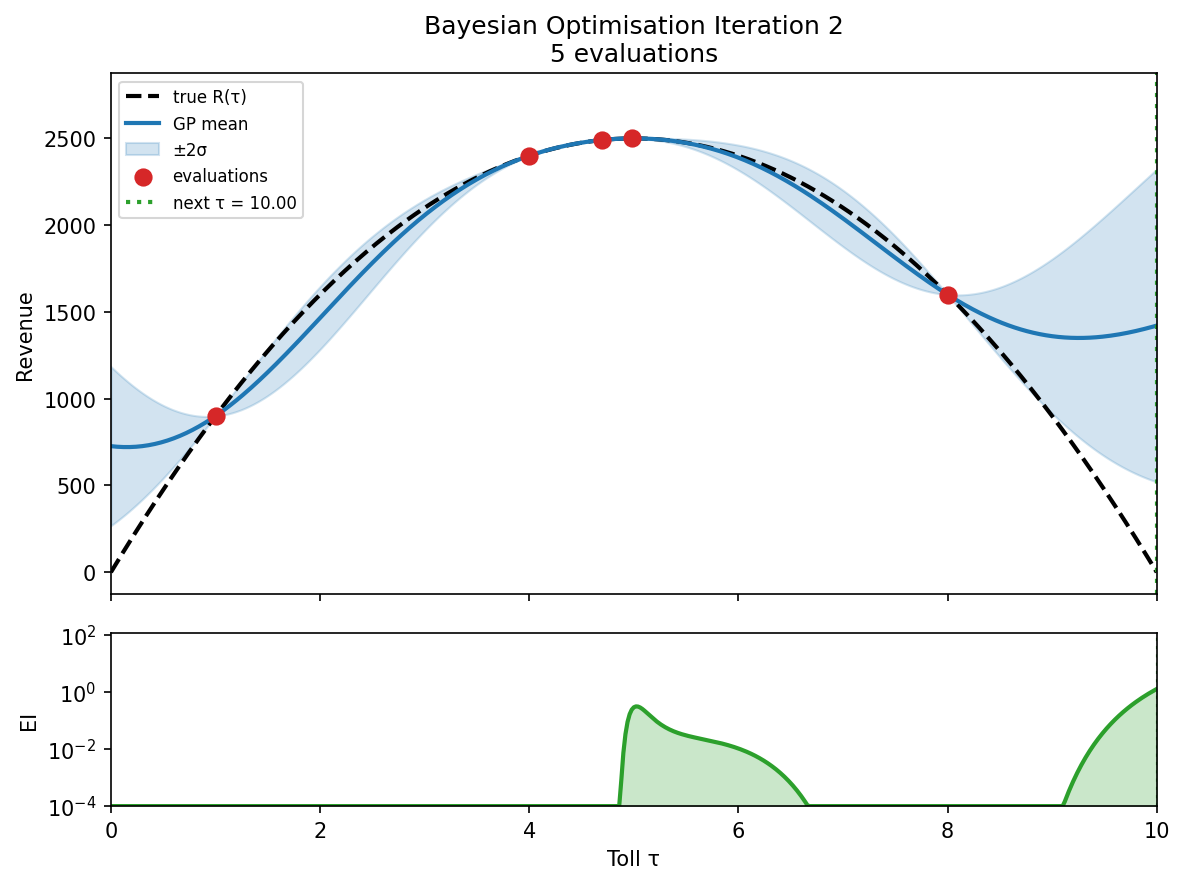
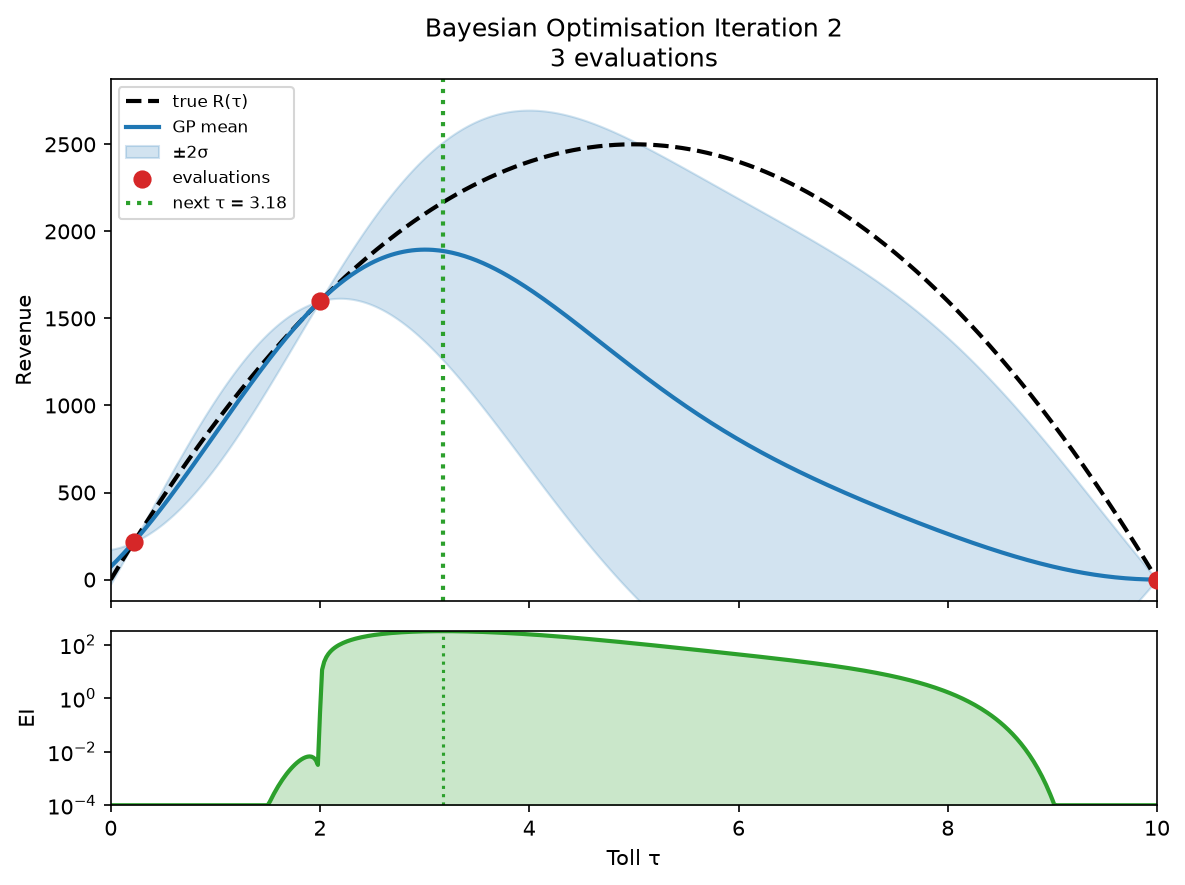
add stopping criterium

diff --git a/toll_bo_images.py b/toll_bo_images.py
@@ -4,12 +4,15 @@ Single road, single toll operator: revenue maximisation.
 Part 1: exact solution (very doable by hand on paper as well)
 Part 2: Bayesian Optimisation with a hand-written Gaussian Process
 """
+import os
 import numpy as np
 import matplotlib
 matplotlib.use("Agg")
 import matplotlib.pyplot as plt
 from scipy.stats import norm
 import imageio.v2 as imageio
+
+os.makedirs("vis", exist_ok=True)   # output folder for figures and GIF
 
 # ----------------------------------------------------------------------
 # 1. The "expensive model" (here cheap, but we treat it as a black box)
@@ -115,7 +118,9 @@ def gp_posterior(x_train, y_train, x_test, length=2.0, sigma_f=1.0, noise=1e-6):
     # revenues are in the thousands. Rescaling y to zero mean / unit spread
     # makes sigma_f = 1 a sensible choice. We undo this at the very end.
     y_mean = y_train.mean()
-    y_std = y_train.std() + 1e-12          # +1e-12 avoids dividing by zero
+    y_std = y_train.std()
+    if y_std < 1e-8:                       # all revenues equal (or only 1 point):
+        y_std = 1.0                        # no meaningful spread, skip rescaling
     y = (y_train - y_mean) / y_std
  
     # --- Step 2: build the kernel matrices -------------------------------
@@ -199,26 +204,42 @@ grid = np.linspace(0, TAU_MAX, 501)
  
 # Initial design: BO needs a few evaluations to start. These 3 spread-out
 # tolls are the only "free" information; every later one is chosen by EI.
-x_obs = np.array([1.0, 4.0, 8.0])     # tolls evaluated so far
+x_obs = np.array([2.0])   # !!!!!!!!!!!!!!!!!!!!!!!!!!!!!!!!! hardcoded??????
 y_obs = revenue(x_obs)                # their revenues (3 expensive calls)
-N_ITER = 6                            # number of BO iterations
- 
+N_ITER = 50                            # !!!!!!!!!!!!!!!!!!!!!!!!!!!!!!!!! hardcoded??????
+# Relative stop criterion: stop if EI everywhere is below this fraction of
+# the best revenue seen so far (scale-independent).
+EI_REL_TOL = 1e-6
 snapshots = []   # store each iteration's state, only used for plotting
  
 # --- The BO loop ---------------------------------------------------------
-for it in range(N_ITER):
+for it in range(1, N_ITER + 1):
     # (a) Fit the GP to all data so far and predict on the whole grid.
     #     Cheap: only linear algebra on a tiny matrix.
     mean, std = gp_posterior(x_obs, y_obs, grid)
- 
+
     # (b) Score every candidate toll with EI, relative to the best
     #     revenue observed so far.
     ei = expected_improvement(mean, std, y_obs.max())
- 
+
+    # Stopping criterion: no candidate toll is worth another evaluation.
+    if ei.max() <= EI_REL_TOL * abs(y_obs.max()):
+        print(f"Stopped before iter {it}: max EI = {ei.max():.2e} "
+              f"is below tolerance")
+        break
+
     # (c) Pick the toll with the highest EI: the most promising place
     #     to spend one expensive evaluation.
     x_next = grid[np.argmax(ei)]
- 
+
+    # Second stopping criterion: the model is deterministic, so re-evaluating
+    # a toll we already know gives no new information. EI asking for one
+    # means the GP has converged (the leftover EI is just the noise jitter).
+    if np.any(np.isclose(x_next, x_obs)):
+        print(f"Stopped before iter {it}: EI proposes tau = {x_next:.2f}, "
+              f"which was already evaluated (converged)")
+        break
+
     snapshots.append((x_obs.copy(), y_obs.copy(), mean, std, ei, x_next))
     print(f"iter {it}: evaluate tau = {x_next:.2f}  "
           f"(best so far: tau = {x_obs[np.argmax(y_obs)]:.2f}, "
@@ -236,6 +257,10 @@ print(f"\nBO result: tau = {x_obs[best]:.3f}, R = {y_obs[best]:.1f} "
       f"after {len(x_obs)} evaluations")
 print(f"Exact:     tau = {tau_star:.3f}, R = {revenue(tau_star):.1f}")
  
+if not snapshots:
+    raise SystemExit("BO loop did not run: check the initial design / stopping criterion.")
+n_snap = len(snapshots)
+
 # Why does it stop making progress? Once a point near the optimum is known,
 # the GP is confident nearby and EI is tiny everywhere, so argmax keeps
 # returning (almost) the same toll. Repeated picks signal convergence.
@@ -254,7 +279,7 @@ EI_MAX = max(np.max(snap[4]) for snap in snapshots)
 
 gif_frames = []
 
-for k in range(N_ITER):
+for k in range(n_snap):
 
     xo, yo, m, s, ei, xn = snapshots[k]
 
@@ -357,7 +382,7 @@ imageio.mimsave(
 )
 
 print(
-    f"Saved {N_ITER} iteration figures "
+    f"Saved {n_snap} iteration figures "
     f"and toll_bo_evolution.gif"
 )
 
@@ -365,7 +390,7 @@ print(
 # Original summary figure (first, middle, last iteration)
 # ----------------------------------------------------------------------
 
-picks = [0, N_ITER // 2, N_ITER - 1]
+picks = sorted(set([0, n_snap // 2, n_snap - 1]))
 
 fig, axes = plt.subplots(
     2,

diff --git a/toll_bo.py b/toll_bo.py
@@ -1,3 +1,5 @@
+#OUTDATED, USE toll_bo.py INSTEAD
+
 """
 Single road, single toll operator: revenue maximisation.
 
@@ -198,7 +200,7 @@ grid = np.linspace(0, TAU_MAX, 501)
  
 # Initial design: BO needs a few evaluations to start. These 3 spread-out
 # tolls are the only "free" information; every later one is chosen by EI.
-x_obs = np.array([1.0, 4.0, 8.0])     # tolls evaluated so far
+x_obs = np.array([0])     # tolls evaluated so far
 y_obs = revenue(x_obs)                # their revenues (3 expensive calls)
 N_ITER = 6                            # number of BO iterations
  
